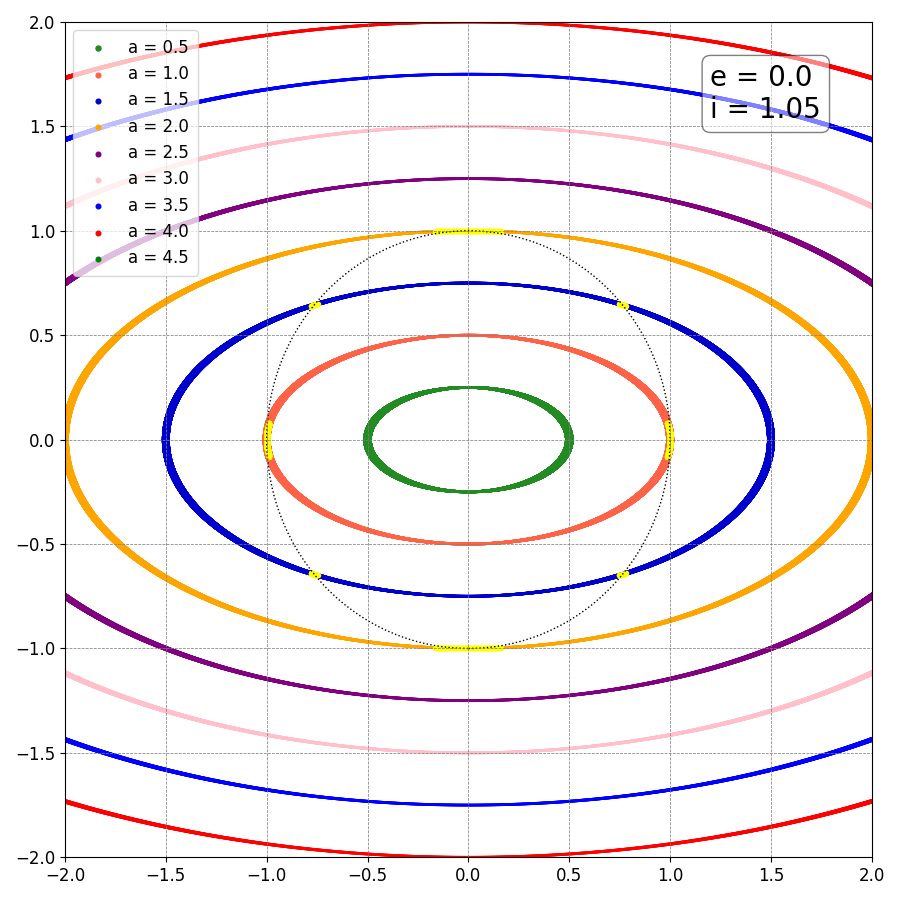
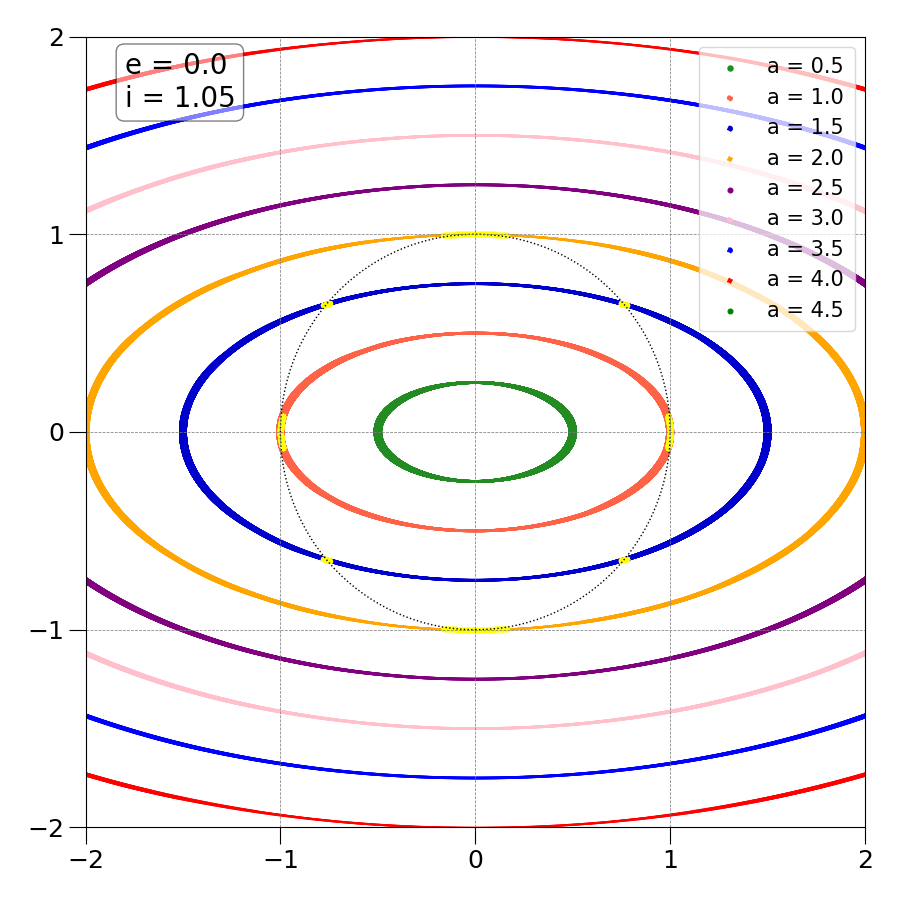
- Fixed Problem with MultiPlotProj's x limit not having additional tick marks, see plotting code for info about it
- Made plots for MultiProj more visible and font larger for accessibility

- Fixed problem with Sep_gen not working due to gamma instance

diff --git a/Sep_plot.py b/Sep_plot.py
@@ -207,18 +207,22 @@ class Sep_plot(Sep_gen):
         rlist = []
         totlist = []
         
+        omega = round(w)
+        
         # Gets everything ready for multiprocessing of orbital projections
         if len(specify) == 0:
             # 3 by 4 Plot
             list, totparam, listt = self.DataProj(w = w, start = start, end = end, step = step)
-            fig, axs = plt.subplots(3,4, figsize = (13,9), gridspec_kw = {"hspace" : 0, "wspace" : 0}, sharex = False, sharey = False)
+            fig, axs = plt.subplots(3,4, figsize = (13,9), gridspec_kw = {"hspace" : 0, "wspace" : 0}, sharex = True, sharey = True)
         else:
             # 1 by 1 plot
             list, totparam, listt = self.DataProj(w = w, start = start, end = end, step = step, specify = specify)
-            fig, axs = plt.subplots(figsize = (9,9), gridspec_kw = {"hspace" : 0, "wspace" : 0}, sharex = False, sharey = False)
+            fig, axs = plt.subplots(figsize = (9,9), gridspec_kw = {"hspace" : 0, "wspace" : 0}, sharex = True, sharey = True)
         
         rect = dict(boxstyle = "round", alpha = 0.5, facecolor = "white")        
-        
+        colorlist = ["forestgreen", "tomato", "mediumblue", "orange", "purple",
+                                    "pink", "blue", "red", "green", "cyan"]
+        linelist = ["-", "--", "-.", ":"]
         
         # fig.suptitle("Orbital Projection with Alterations in e, i, and "r"From $\omega$ 0 to $\ \frac{\pi}{2}$", x = 0.49, y = 0.99)
     
@@ -232,7 +236,7 @@ class Sep_plot(Sep_gen):
                 param = totparam[j]
                 
                 # Finds points <= 0.01 for each projection
-                rtemp, xchange, ychange, rtemp_log, temp = Sep_gen.Rchange(param, coords = True)
+                rtemp, xchange, ychange = Sep_gen.Rchange(param, coords = True)
                 
                 vel = Sep_gen.Velocity(param)
                 # Iterates through the data clump to access
@@ -241,7 +245,6 @@ class Sep_plot(Sep_gen):
                     # This contains each data set in the data clump
                     initialx, initialy = iterlist[g]
                     # Calculates the velocity of each data point in the data set
-                    
                     rlist.append(rtemp)
                     # print("Last Velocity Output: ", vel[-1])
                     velmax = np.max(vel[g])
@@ -253,8 +256,7 @@ class Sep_plot(Sep_gen):
                     
                     # Determines the colors of each data set according
                     # to its positioning
-                    colorlist = ["forestgreen", "tomato", "mediumblue", "orange", "purple",
-                                    "pink", "blue", "red", "green", "cyan"]
+                    
                     if end == 1.25:
                         if g == 0:
                             label = "a = 0.75"
@@ -279,10 +281,11 @@ class Sep_plot(Sep_gen):
                         rangelist = np.arange(0.5,end+0.5,0.5)
                         alpha = rangelist[g]
                         label = f"a = {alpha}"
-                        color = colorlist[g % 10]   
+                        color = colorlist[g % 10]
+                        linestyle = linelist[g % 4]   
                     
                     # Plots the data set, including the dot size according to velocity        
-                    dataproj = ax.scatter(initialx, initialy, s=dot, color= color, label=label)
+                    dataproj = ax.scatter(initialx, initialy, s=dot, color= color, label=label, ls = linestyle)
                     # Also includes points at which |r-r0| <= 0.01
                     data = ax.scatter(xchange[g], ychange[g], s = 8, color = "yellow")
                     
@@ -300,29 +303,32 @@ class Sep_plot(Sep_gen):
                 #     handles, labels = ax.get_legend_handles_labels()
                     
                 # Limits
+                limit = [-2,-1, 0, 1, 2]
                 ax.set_xlim(-2,2)
                 ax.set_ylim(-2,2)
+                ax.set_xticks(limit)
+                ax.set_yticks(limit)
                     
                 textstr = "\n".join((f'e = {param[0]}', f'i = {round(param[1],2)}'))
-                ax.text(0.80, 0.95, textstr, transform = ax.transAxes, fontsize = 20, verticalalignment = "top", bbox = rect)
+                ax.text(0.05, 0.95, textstr, transform = ax.transAxes, fontsize = 15, verticalalignment = "top", bbox = rect)
                 
-                if j == 8:
-                        ax.tick_params(axis = "both", labelbottom = True, labelleft = True, labelsize = 12)
+                if j == 0 or j == 4 or j == 8:
+                    if j == 8:
+                        ax.tick_params(axis = "both", labelbottom = True, labelleft = True)
+                    else:
+                        ax.tick_params(axis = "both", labelbottom = False, labelleft = False)
                 else:
-                    ax.tick_params(axis = "both", labelbottom = False, labelleft = False, labelsize = 12)
+                    ax.tick_params(axis = "x", labelbottom = False)
                 if j == 11:
                     handles, labels = ax.get_legend_handles_labels()
-                    # MAY HAVE TO REMOVE BELOW LINE
-                    ax.tick_params(labelsize = 12)
-
-
-                    ax.legend(handles[0:9],labels[0:9], loc = "upper left", fontsize = 12, borderpad = 0.5, labelspacing = 0.50, handlelength = 2, framealpha = 0.75)
+                    ax.legend(handles[0:9],labels[0:9], loc = "upper right", fontsize = 10, borderpad = 0.5, labelspacing = 0.50, handlelength = 2, framealpha = 0.75)
+                # print(ax.xaxis.get_ticklocs(minor = False))
         else:
             iterlist = list[0]
             param = totparam[0]
             
             # Finds points <= 0.01 for each projection
-            rtemp, xchange, ychange, rtemp_log, temp = Sep_gen.Rchange(param, coords = True)
+            rtemp, xchange, ychange = Sep_gen.Rchange(param, coords = True)
             
             vel = Sep_gen.Velocity(param)
             # Iterates through the data clump to access
@@ -343,17 +349,16 @@ class Sep_plot(Sep_gen):
                 
                 # Determines the colors of each data set according
                 # to its positioning
-                colorlist = ["forestgreen", "tomato", "mediumblue", "orange", "purple",
-                                "pink", "blue", "red", "green", "cyan"]
                 rangelist = np.arange(0.5,end+0.5,0.5)
                 alpha = rangelist[g]
                 label = f"a = {alpha}"
-                color = colorlist[g % 10]   
+                color = colorlist[g % 10]
+                linestyle = linelist[g % 4]    
                 
                 # Plots the data set, including the dot size according to velocity        
-                dataproj = axs.scatter(initialx, initialy, s=dot, color= color, label=label)
+                dataproj = axs.scatter(initialx, initialy, s=dot, color= color, label=label, ls = linestyle)
                 # Also includes points at which |r-r0| <= 0.01
-                data = axs.scatter(xchange[g], ychange[g], s = 8, color = "yellow")
+                data = axs.scatter(xchange[g], ychange[g], s = 8, color = "yellow",)
                 
             # Creates the grid for each plot
             axs.grid(True,color = "grey", linestyle="--", linewidth="0.55", axis = "both", which = "both")
@@ -363,30 +368,32 @@ class Sep_plot(Sep_gen):
             
             # Adds the Circle to the plot
             axs.add_patch(Circ2)
-            
-            # # Just grabs the labels for each plot just before it iterates through again
-            # if j == 0:
-            #     handles, labels = ax.get_legend_handles_labels()
                 
             # Limits
+            limit = [-2,-1, 0, 1, 2]
             axs.set_xlim(-2,2)
             axs.set_ylim(-2,2)
+            axs.set_xticks(limit)
+            axs.set_yticks(limit)
             # Decorations    
             textstr = "\n".join((f'e = {param[0]}', f'i = {round(param[1],2)}'))
-            axs.text(0.80, 0.95, textstr, transform = axs.transAxes, fontsize = 20, verticalalignment = "top", bbox = rect)
+            axs.text(0.05, 0.98, textstr, transform = axs.transAxes, fontsize = 20, verticalalignment = "top", bbox = rect)
             handles, labels = axs.get_legend_handles_labels()
-            axs.tick_params(labelsize = 12)
-            axs.legend(handles[0:9],labels[0:9], loc = "upper left", fontsize = 12, borderpad = 0.5, labelspacing = 0.50, handlelength = 2, framealpha = 0.75)
+            axs.legend(handles[0:9],labels[0:9], loc = "upper right", fontsize = 15, borderpad = 0.5, labelspacing = 0.50, handlelength = 2, framealpha = 0.75)
         fig.tight_layout()
         
         # Saves to Figure Folder
         if len(specify) == 0:
-            plt.savefig(f"/College_Projects/Microlensing Separation/Figures/MultiProj_omega_0.png")
+            try:
+                plt.savefig(f"/College_Projects/Microlensing Separation/Figures/MultiProj_omega_0.png")
+            except OSError:
+                plt.savefig(f'C:/Users/victo/College_Projects/Microlensing Separation/Figures/MultiProj_omega_0.png')
         else:
-            plt.savefig(f"/College_Projects/Microlensing Separation/Figures/MultiProj_omega_0_specified.png")
-        # plt.savefig(f"C:/Users/victo/College_Projects/Microlensing Separation/Figures/Multi_a05_{end}_omega_0.png")
-        # plt.show()
-        
+            try:
+                plt.savefig(f"/College_Projects/Microlensing Separation/Figures/MultiProj_omega_{omega}_specified.png")
+            except OSError:
+                plt.savefig(f"C:/Users/victo/College_Projects/Microlensing Separation/Figures/MultiProj_omega_{omega}_specified.png")
+            
         
         return rlist
 
@@ -1779,9 +1786,10 @@ if __name__ == "__main__":
     test = False
     unity = False
     dist = ""
+    # specify = []
     specify = [0., np.pi/3]
     tothist = Sep_plot(numestep=numestep, numdiv=numdiv, wnum = wnum)
-    # rlist = tothist.MultiPlotProj(w = 0, start = 0.5, end = 20, step = 0.5, specify = specify)
+    rlist = tothist.MultiPlotProj(w = 0, start = 0.5, end = 20, step = 0.5, specify = specify)
     # specify = [eccentricity, inclination]
     # rtemp = tothist.MultiPlotHist(w = 0, step = 0.002, end = 20, which = which , specify = specify)
     
@@ -1789,7 +1797,7 @@ if __name__ == "__main__":
     # tothist.CompletePlotHist([0.002, 20, True, which, [], inum, wnum, unity])
     # folder = tothist.UnityPlotHistGen(which = which, unity = unity, circ = circ, gamma_bool = gamma_bool)
     # load = tothist.UnityPlotHistLoad(which = which, alpha_step = alpha, dist = dist, circ = circ, test = test)
-    cdf = tothist.statistics(which = which, alpha_step = alpha)
+    # cdf = tothist.statistics(which = which, alpha_step = alpha)
     
     # Note: stepalpha function can also combine uniform and circular distributions!
     # alpha = tothist.stepalpha(which = which, alpha = alpha, circ = circ)

diff --git a/Sep_gen.py b/Sep_gen.py
@@ -382,6 +382,7 @@ class Sep_gen:
         xlist = []
         ylist = []
         r0 = 1 # Einstein Ring Radius
+        estep = 0
         
         # Has different parameter sets if conditions are met
         if coords == True:
@@ -392,8 +393,9 @@ class Sep_gen:
             e, i, w, end, step, Linear, inclination, estep = param
         alpha = 1.35 # Shape (Alpha)
         theta = 1/5.05 # Scale (Beta = 1 / Scale)
-        gammastep = gamma.pdf(estep, a = alpha, scale = theta)
-        gamma_sum = np.sum(gammastep)
+        if isinstance(estep, (list, np.ndarray)):
+            gammastep = gamma.pdf(estep, a = alpha, scale = theta)
+            gamma_sum = np.sum(gammastep)
         
         # Only steps through Linear portion of points
         if Linear == "Linear":
@@ -451,7 +453,7 @@ class Sep_gen:
                             totlindict[aval] += len(conlin[0])
                         else:
                             totlindict[aval] = len(conlin[0])
-                return totlindict, xlist, ylist
+                return totlindict, xlist, ylist, 
         elif Linear == "Log":
             if not inclination:
                 # Log Portion
